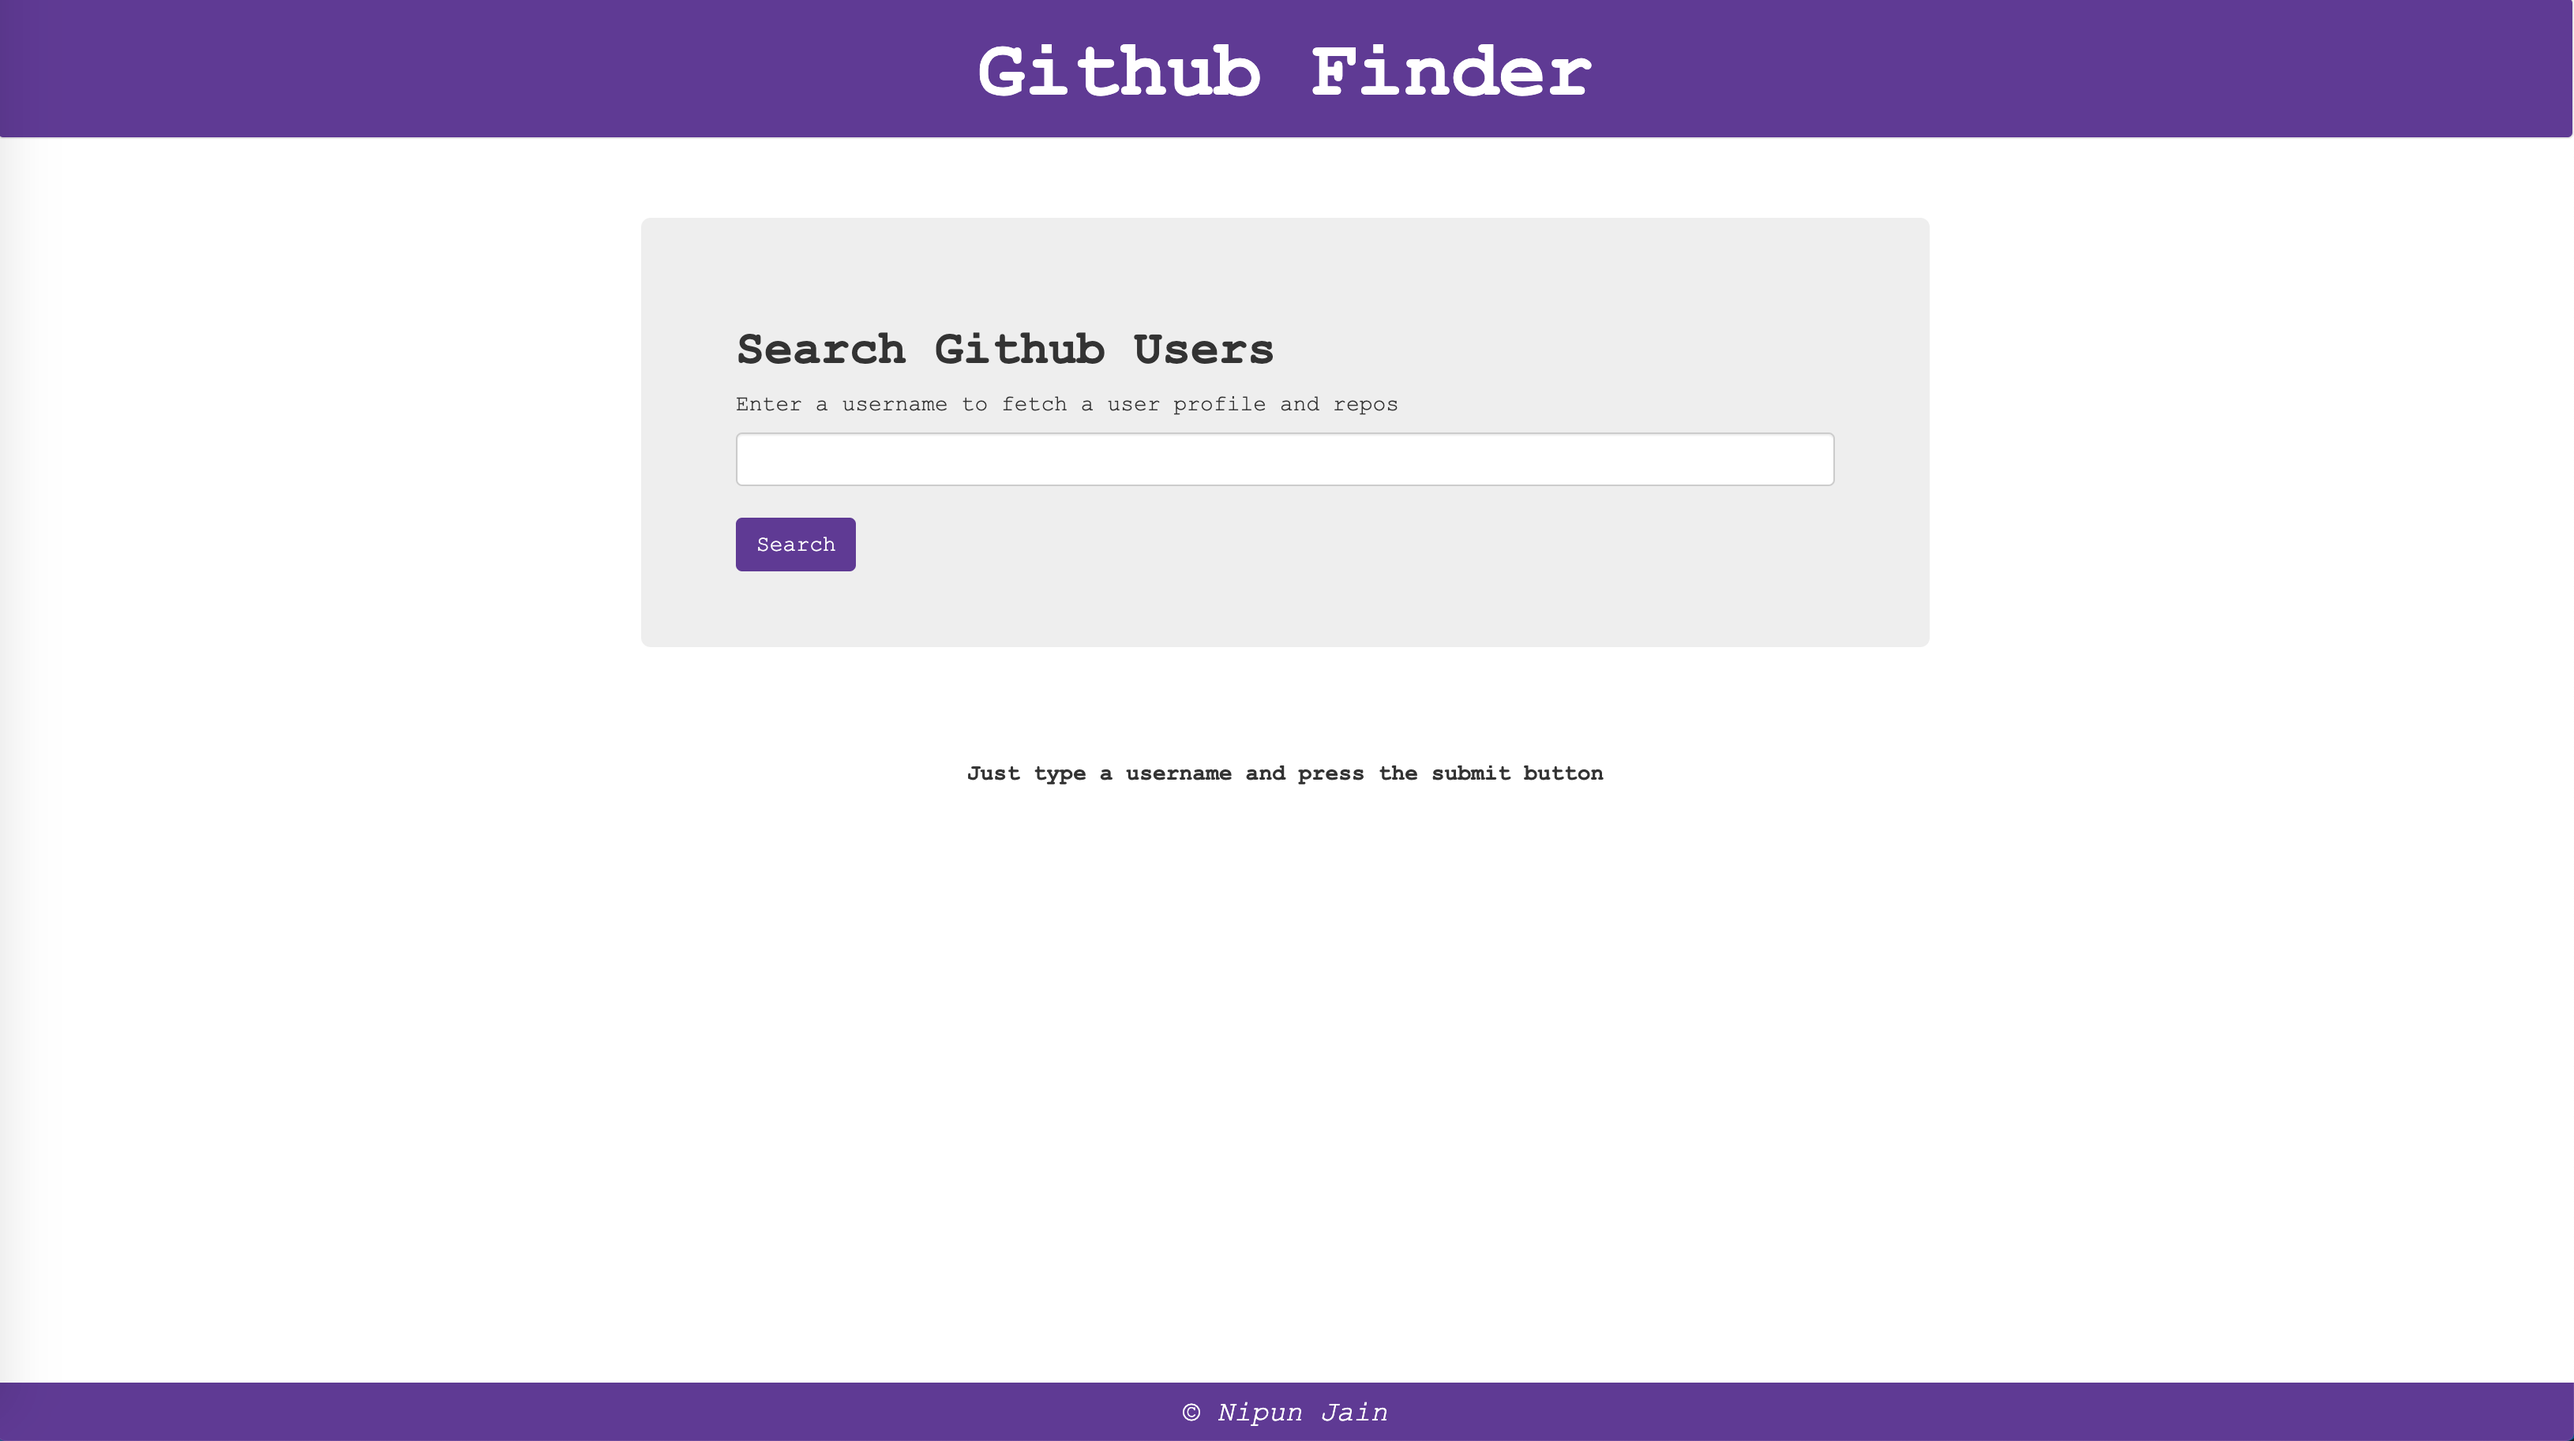
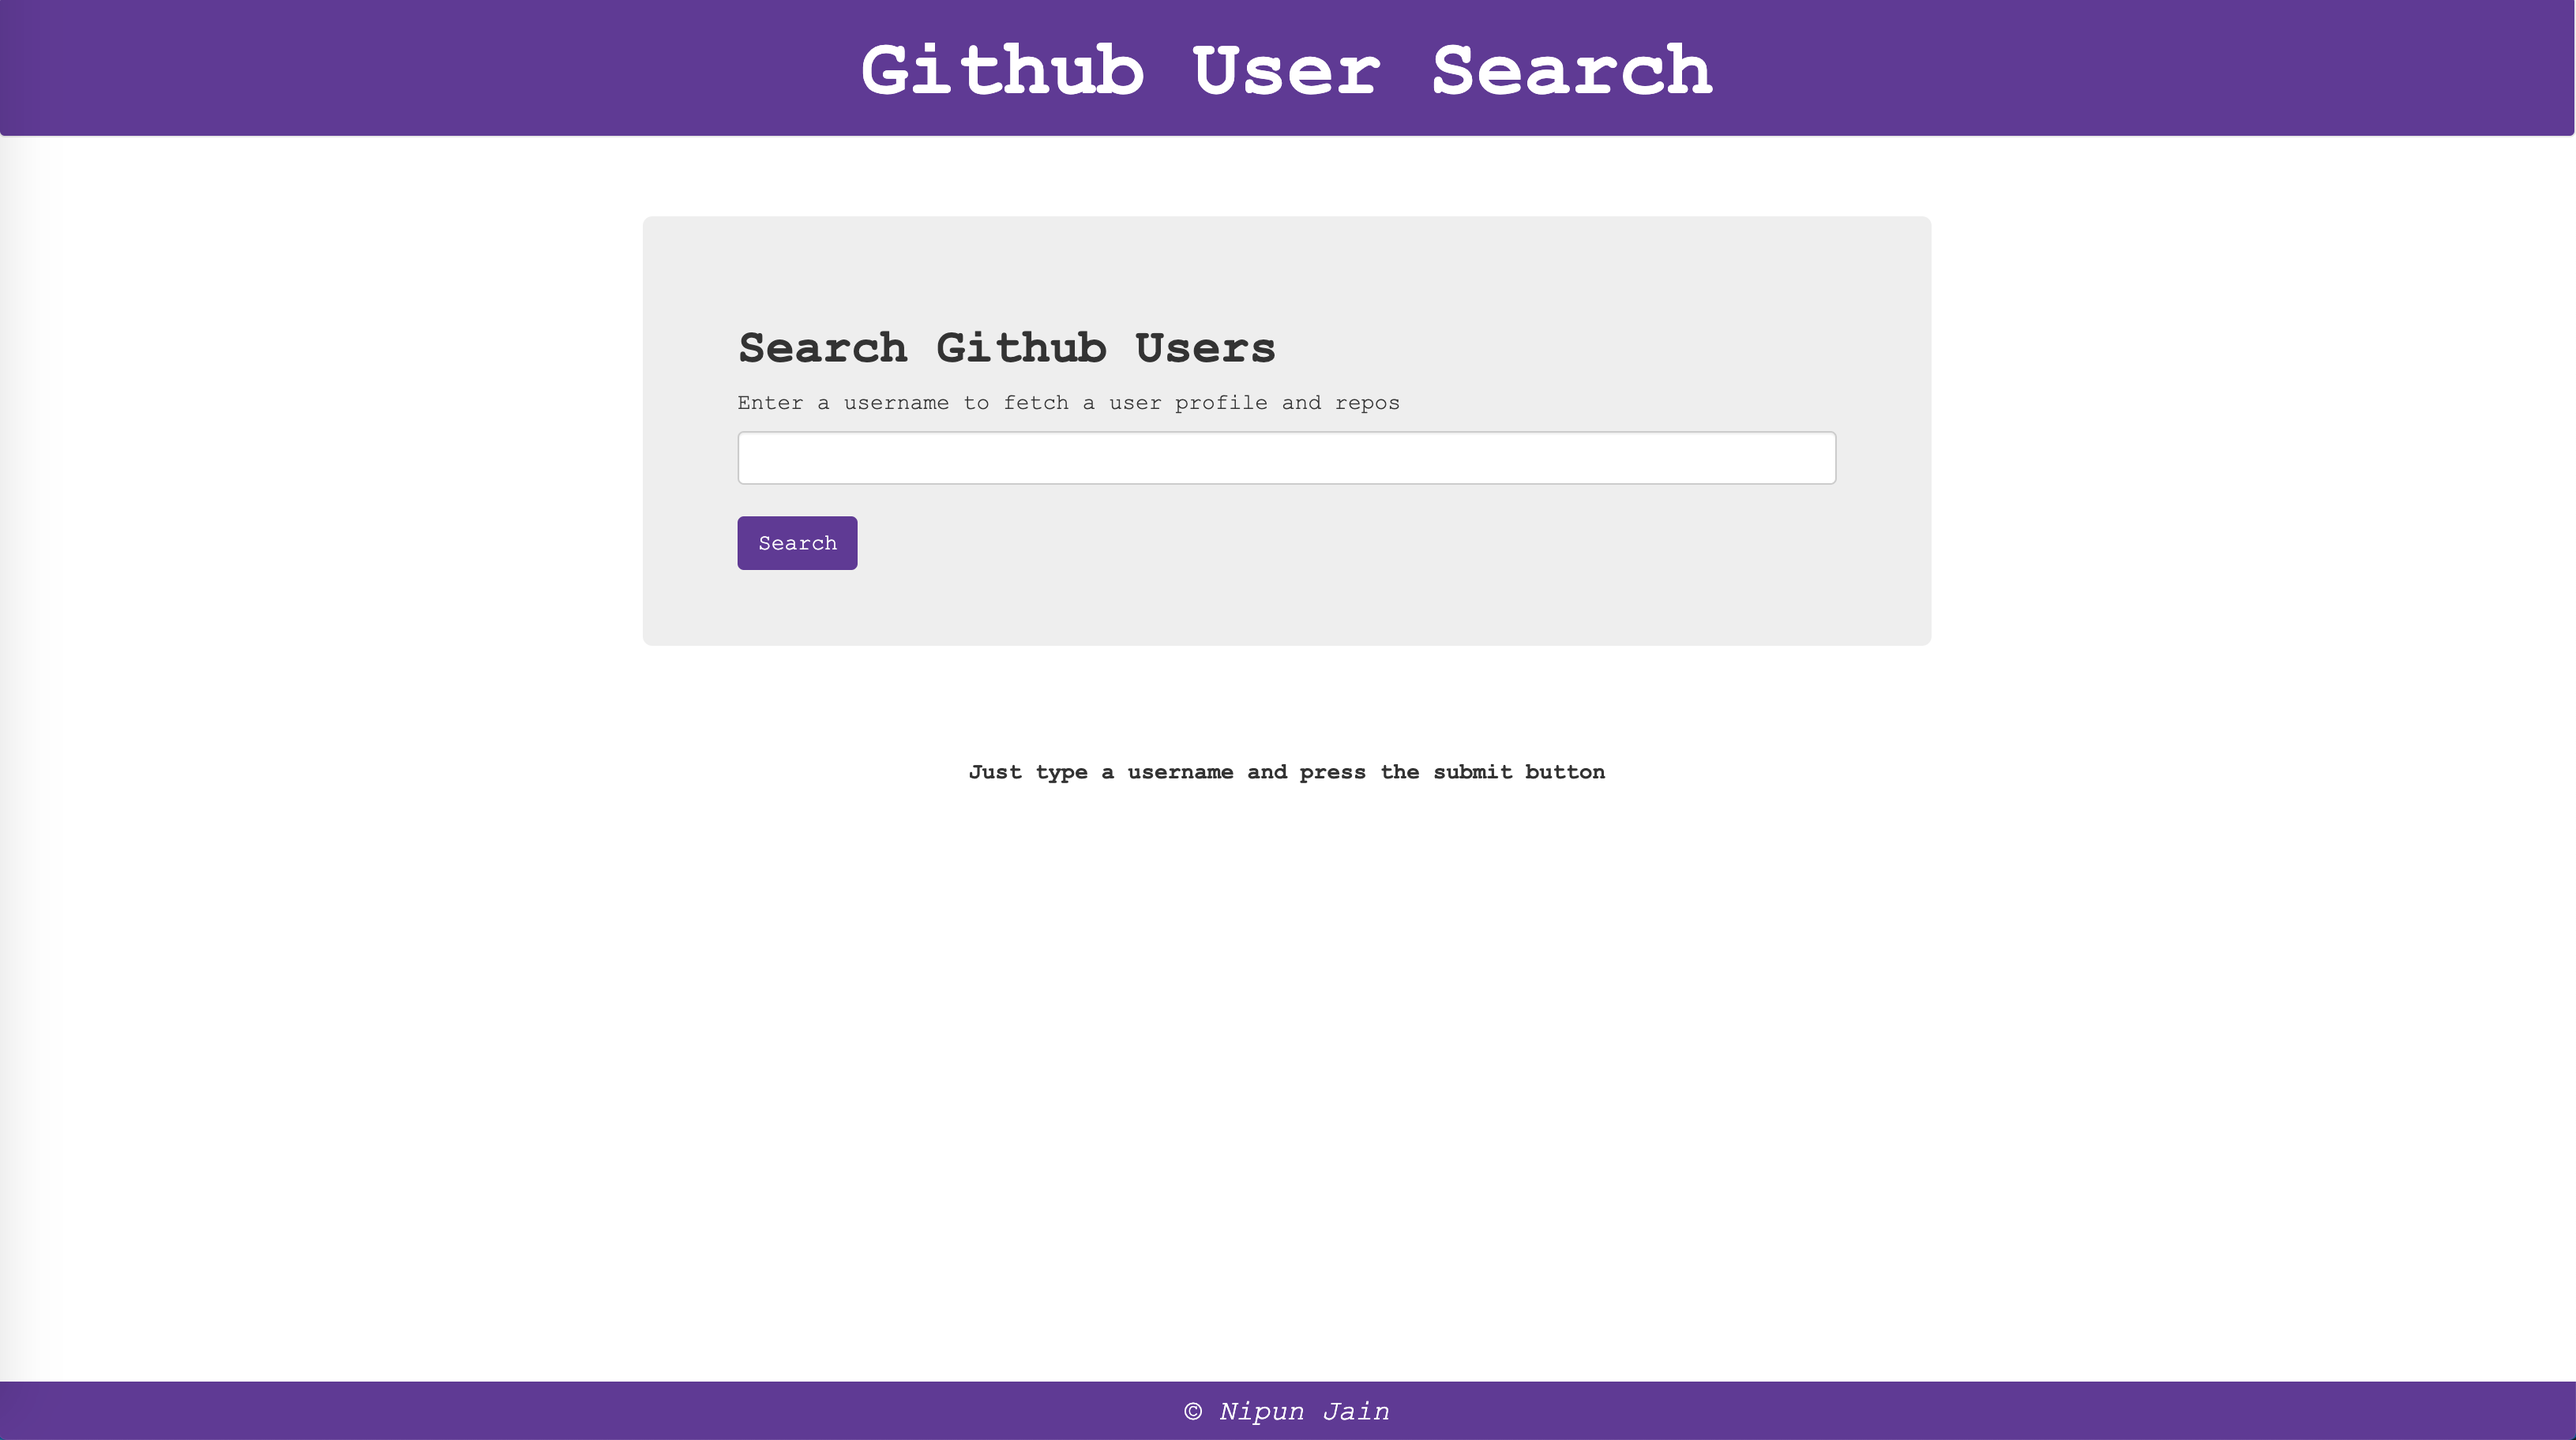
Minor change of readme image

diff --git a/index.html b/index.html
@@ -12,7 +12,7 @@
 <body>
     <div class="container-fluid header">
         <nav class="navbar navbar-default">
-            <h3 class="nav-heading">Github Finder</h3>
+            <h3 class="nav-heading">Github User Search</h3>
         </nav>
     </div>
 
